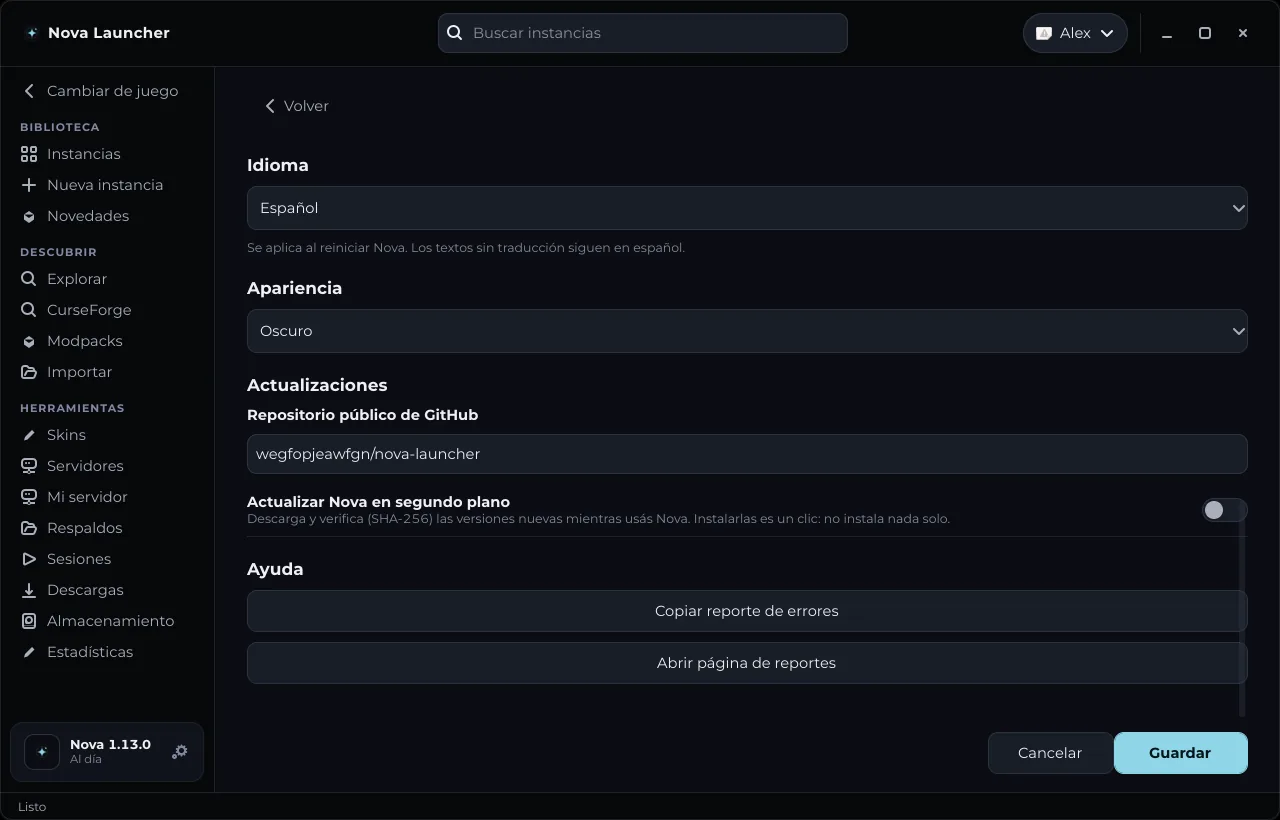
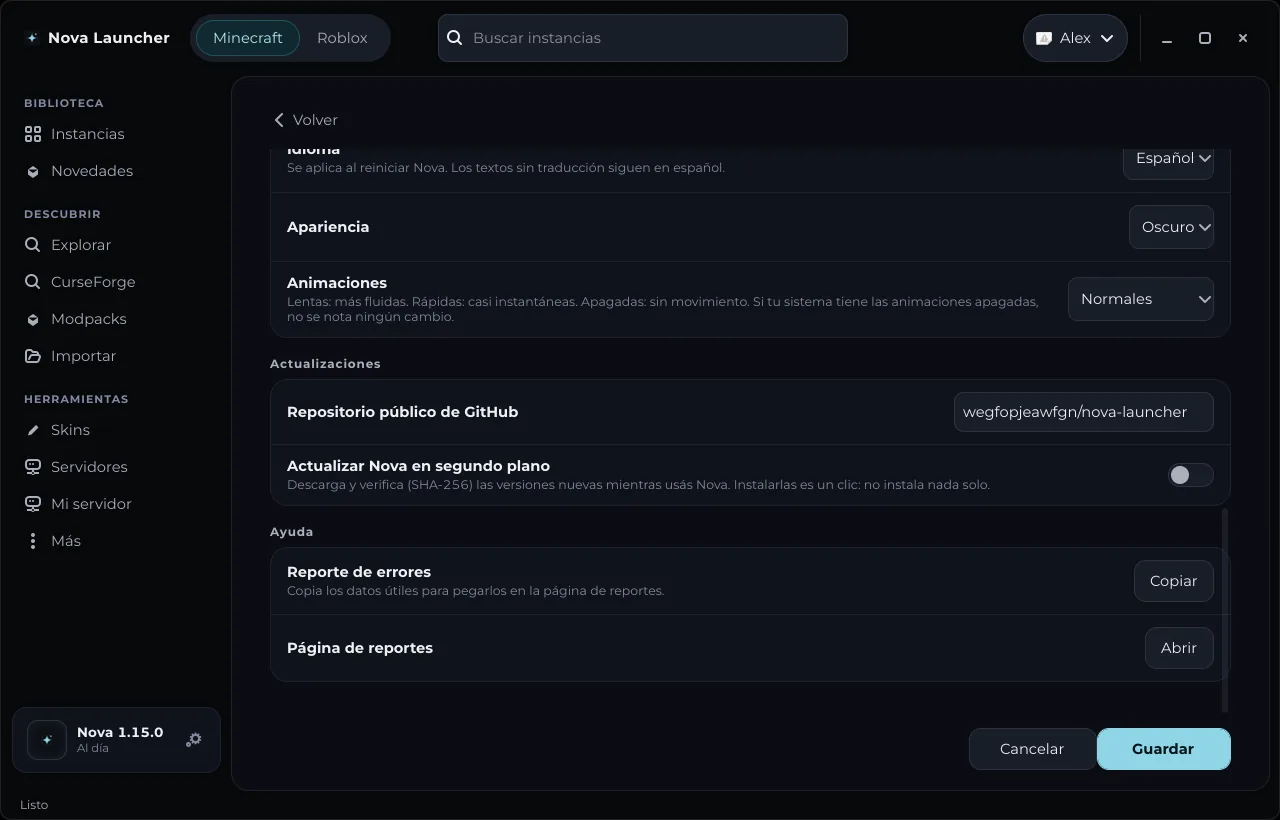
Website: 1.15.0, new screenshots, intro animation and RPM

diff --git a/docs/index.html b/docs/index.html
@@ -52,21 +52,21 @@
       <div class="wrap hero-grid">
         <div class="hero-copy">
           <div class="badge-row">
-            <p class="badge"><span aria-hidden="true"></span> Versión estable · <b id="release-version">1.14.1</b></p>
+            <p class="badge"><span aria-hidden="true"></span> Versión estable · <b id="release-version">1.15.0</b></p>
           <a class="badge badge-link" href="#roblox"><span aria-hidden="true"></span> Nuevo · Roblox</a>
           <a class="badge badge-link" href="#servidor"><span aria-hidden="true"></span> Nuevo · Mi servidor</a>
           </div>
           <h1 id="titulo">Tus mods.<br>Tus mundos.<br><em>Un solo launcher.</em></h1>
           <p class="intro">Nova Launcher organiza tus instancias de Minecraft Java: instalá mods, importá los que ya tenés, guardá respaldos verificados y armá tu propio servidor para jugar con amigos. Y si también jugás Roblox, lo abrís desde el mismo lugar.</p>
           <div class="actions">
-            <a class="btn primary" id="release-rpm" href="descargas/nova-launcher-1.14.1-1.noarch.rpm" download><svg aria-hidden="true" viewBox="0 0 24 24"><path d="M12 3v12m-5-5 5 5 5-5M4 19h16"/></svg> Descargar para Fedora</a>
+            <a class="btn primary" id="release-rpm" href="descargas/nova-launcher-1.15.0-1.noarch.rpm" download><svg aria-hidden="true" viewBox="0 0 24 24"><path d="M12 3v12m-5-5 5 5 5-5M4 19h16"/></svg> Descargar para Fedora</a>
             <div class="windows-download" id="windows-download">
-              <a class="btn" id="windows-installer" href="https://github.com/wegfopjeawfgn/nova-launcher/releases/download/v1.14.1/nova-launcher-1.14.1-windows-x64-setup.exe"><svg aria-hidden="true" viewBox="0 0 24 24"><path d="M12 3v12m-5-5 5 5 5-5M4 19h16"/></svg> Descargar para Windows x64</a>
+              <a class="btn" id="windows-installer" href="https://github.com/wegfopjeawfgn/nova-launcher/releases/download/v1.15.0/nova-launcher-1.15.0-windows-x64-setup.exe"><svg aria-hidden="true" viewBox="0 0 24 24"><path d="M12 3v12m-5-5 5 5 5-5M4 19h16"/></svg> Descargar para Windows x64</a>
             </div>
           </div>
           <p class="download-meta">Comprobá cada archivo con su suma:
-            <a id="release-checksum" href="descargas/nova-launcher-1.14.1-1.noarch.rpm.sha256" download>SHA-256 del RPM</a> ·
-            <a id="windows-checksum" href="https://github.com/wegfopjeawfgn/nova-launcher/releases/download/v1.14.1/nova-launcher-1.14.1-windows-x64-setup.exe.sha256">SHA-256 del instalador</a>
+            <a id="release-checksum" href="descargas/nova-launcher-1.15.0-1.noarch.rpm.sha256" download>SHA-256 del RPM</a> ·
+            <a id="windows-checksum" href="https://github.com/wegfopjeawfgn/nova-launcher/releases/download/v1.15.0/nova-launcher-1.15.0-windows-x64-setup.exe.sha256">SHA-256 del instalador</a>
           </p>
         </div>
         <figure class="shot hero-shot">
@@ -295,7 +295,7 @@
             <h3>Ajustes claros, sin pestañas</h3>
             <p>Nombre, portada, versión, memoria y Java en secciones. El formulario se desplaza solo y los botones Guardar y Cancelar quedan siempre a la vista.</p>
           </div>
-          <figure class="shot"><img src="assets/nova-editar.webp" width="1280" height="940" loading="lazy" alt="Formulario Editar instancia dividido en secciones Instancia, Minecraft, Rendimiento y Java"><figcaption>Editar instancia</figcaption></figure>
+          <figure class="shot"><img src="assets/nova-editar.webp" width="1280" height="820" loading="lazy" alt="Formulario Editar instancia dividido en secciones Instancia, Minecraft, Rendimiento y Java"><figcaption>Editar instancia</figcaption></figure>
         </div>
         <div class="row reveal">
           <div class="copy">
@@ -309,7 +309,7 @@
             <h3>Un editor de skins con vista 3D</h3>
             <p>Pintás sobre la skin desplegada, con cada parte y la capa exterior marcadas, y ves el resultado girando en 3D. Tiene lápiz, borrar, gotero, relleno, simetría, paleta y deshacer; una biblioteca con miniaturas; y «De un jugador» trae la skin de cualquiera por su nombre. Abre también las skins antiguas de 64 × 32.</p>
           </div>
-          <figure class="shot"><img src="assets/nova-skins.webp" width="1280" height="820" loading="lazy" alt="Editor de skins de Nova: biblioteca con miniaturas a la izquierda, la skin desplegada con las capas marcadas al centro y la vista previa en 3D a la derecha"><figcaption>Editor de skins. Skins de ejemplo.</figcaption></figure>
+          <figure class="shot"><img src="assets/nova-skins.webp" width="1280" height="871" loading="lazy" alt="Editor de skins de Nova: biblioteca con miniaturas a la izquierda, la skin desplegada con las capas marcadas al centro y la vista previa en 3D a la derecha"><figcaption>Editor de skins. Skins de ejemplo.</figcaption></figure>
         </div>
         <div class="row flip reveal">
           <div class="copy">
@@ -327,10 +327,17 @@
         </div>
         <div class="row flip reveal">
           <div class="copy">
-            <h3>Oscuro por defecto, claro si lo preferís</h3>
-            <p>Elegí el tema en Ajustes. Las animaciones respetan la configuración de tu escritorio.</p>
+            <h3>Una interfaz nueva, oscura o clara</h3>
+            <p>Un marco nocturno con un panel redondeado, el selector Minecraft/Roblox arriba y una barra lateral más corta: lo menos usado queda detrás de «Más». Elegí el tema claro en Ajustes si lo preferís.</p>
           </div>
           <figure class="shot"><img src="assets/nova-claro.webp" width="1280" height="820" loading="lazy" alt="Biblioteca de Nova con el tema claro"><figcaption>Tema claro</figcaption></figure>
+        </div>
+        <div class="row reveal">
+          <div class="copy">
+            <h3>Una entrada con estrella saltarina</h3>
+            <p>Al abrir Nova, su estrella cae, rebota y deja un destello antes de que la interfaz se arme. Al elegir Minecraft o Roblox, el color del juego se expande desde donde tocaste y cambia la pantalla. En Ajustes → Animaciones las ponés lentas, normales, rápidas o apagadas; si tu sistema las desactiva, Nova tampoco anima.</p>
+          </div>
+          <figure class="shot"><img src="assets/nova-entrada.webp" width="720" height="448" loading="lazy" alt="Animación de entrada de Nova: la estrella cae, rebota tres veces y suelta anillos de luz y chispas"><figcaption>La entrada de Nova</figcaption></figure>
         </div>
       </div>
     </section>
@@ -345,10 +352,10 @@
       </div>
       <div class="terminal">
         <span>Si el archivo está en Descargas</span>
-        <pre><code id="install-downloads">sudo dnf install "$(xdg-user-dir DOWNLOAD)/nova-launcher-1.14.1-1.noarch.rpm"</code></pre>
+        <pre><code id="install-downloads">sudo dnf install "$(xdg-user-dir DOWNLOAD)/nova-launcher-1.15.0-1.noarch.rpm"</code></pre>
         <button type="button" data-copy-command="install-downloads" hidden>Copiar comando para Descargas</button>
         <span>Si ya estás en la carpeta del archivo</span>
-        <pre><code id="install-current">sudo dnf install ./nova-launcher-1.14.1-1.noarch.rpm</code></pre>
+        <pre><code id="install-current">sudo dnf install ./nova-launcher-1.15.0-1.noarch.rpm</code></pre>
         <button type="button" data-copy-command="install-current" hidden>Copiar comando para esta carpeta</button>
         <p id="copy-status" role="status"></p>
         <p>RPM sin firma. El primer arranque de Minecraft descarga los archivos del juego.</p>
